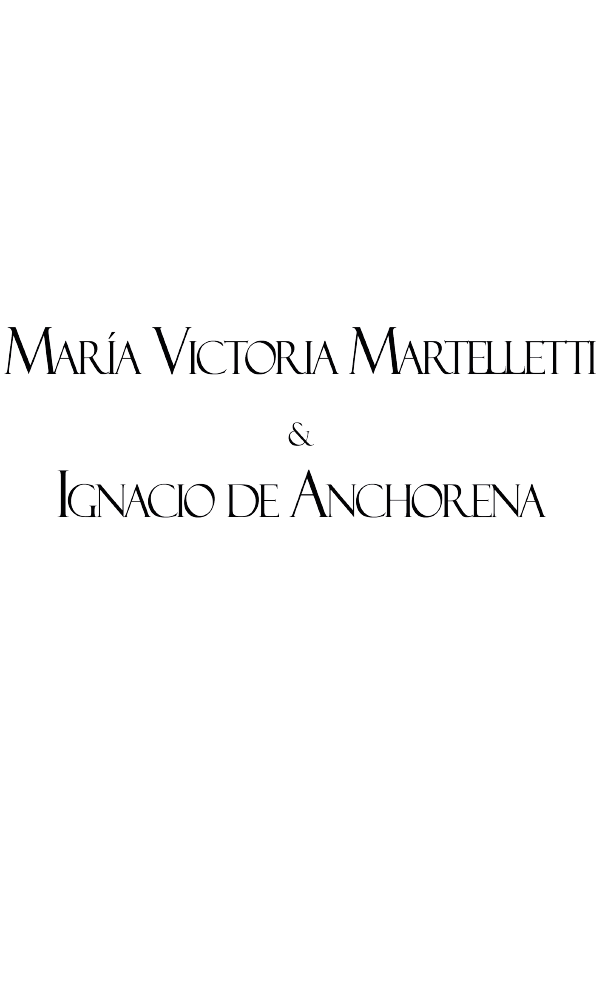
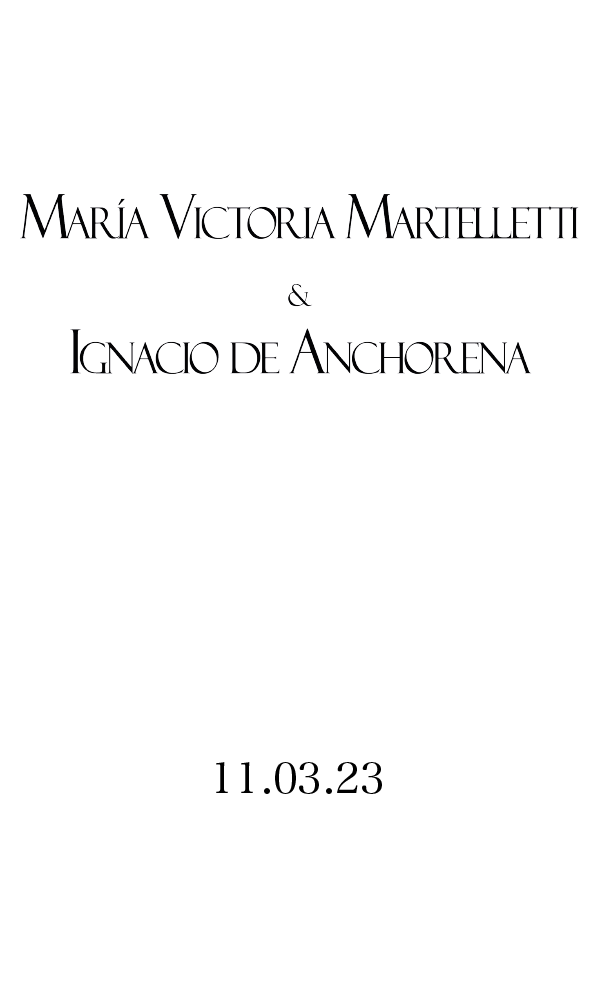
change main image, add wsp pres image

diff --git a/src/config/config.ts b/src/config/config.ts
@@ -1,7 +1,7 @@
 export const CONFIG = {
   title: 'Vicky y Nacho',
   description: 'Invitación de casamiento',
-  metaImagePreview: '', // TODO
+  metaImagePreview: 'https://i.ibb.co/yN1R1jJ/Captura-de-pantalla-2022-12-08-a-la-s-19-54-04.png',
   sectionsEnabled: {
     welcomeEnabled: true,
     countdownEnabled: true,
